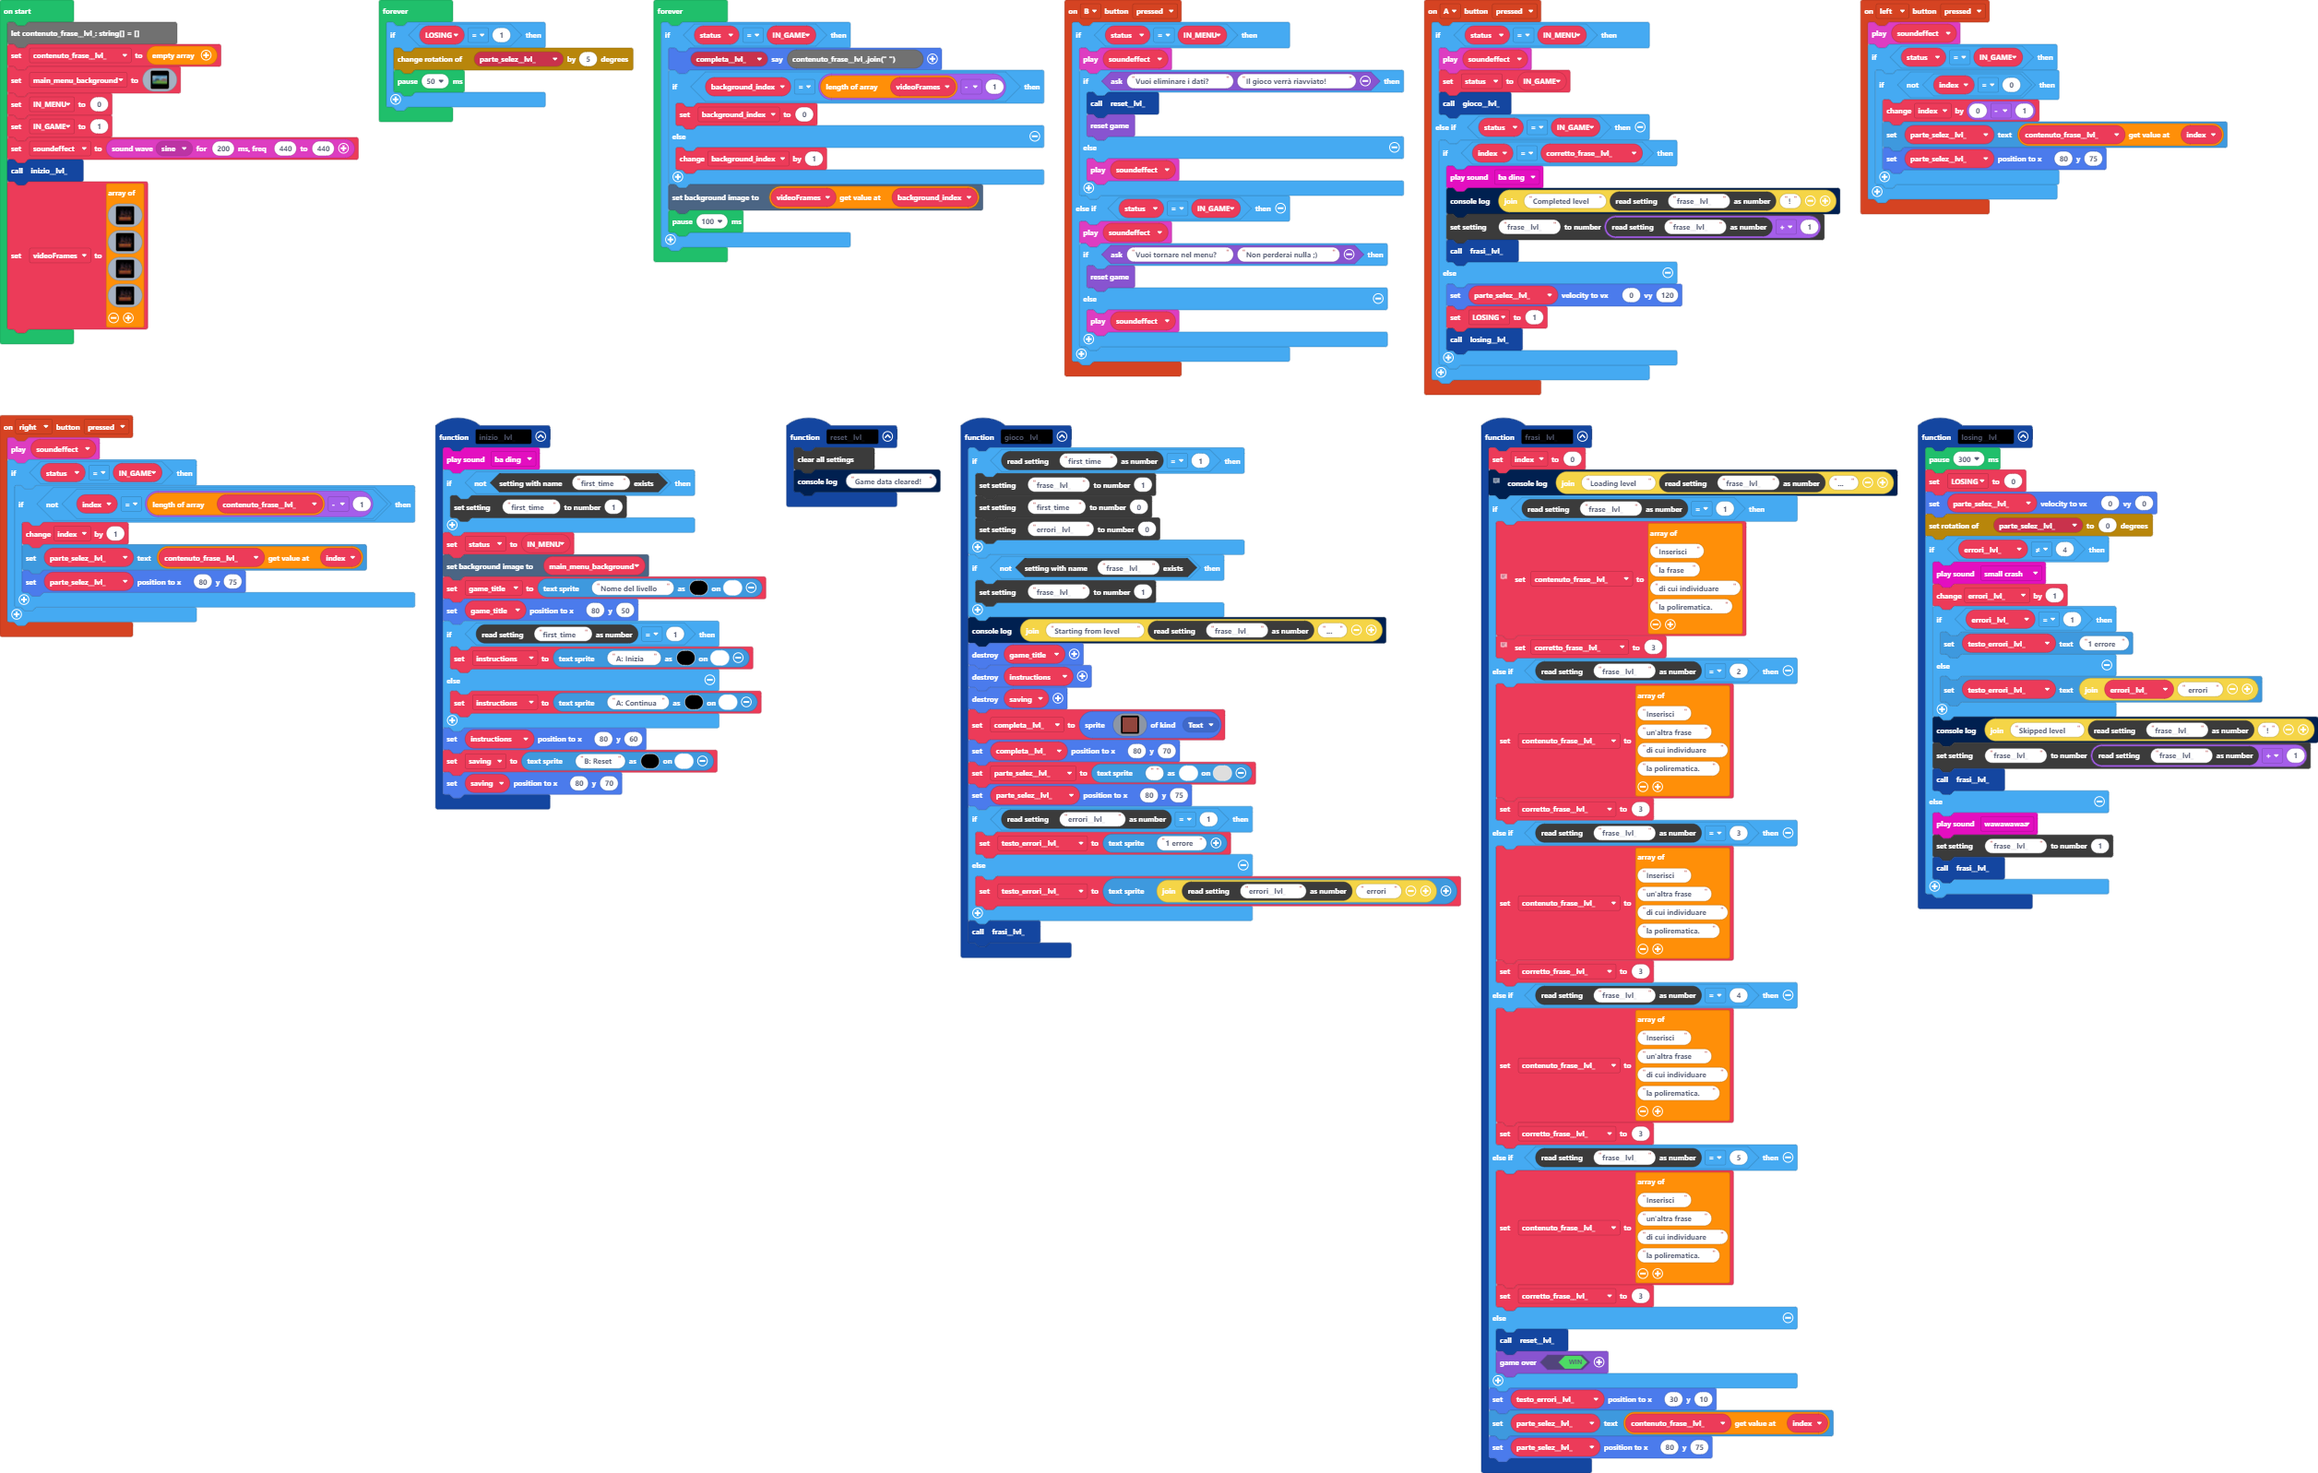
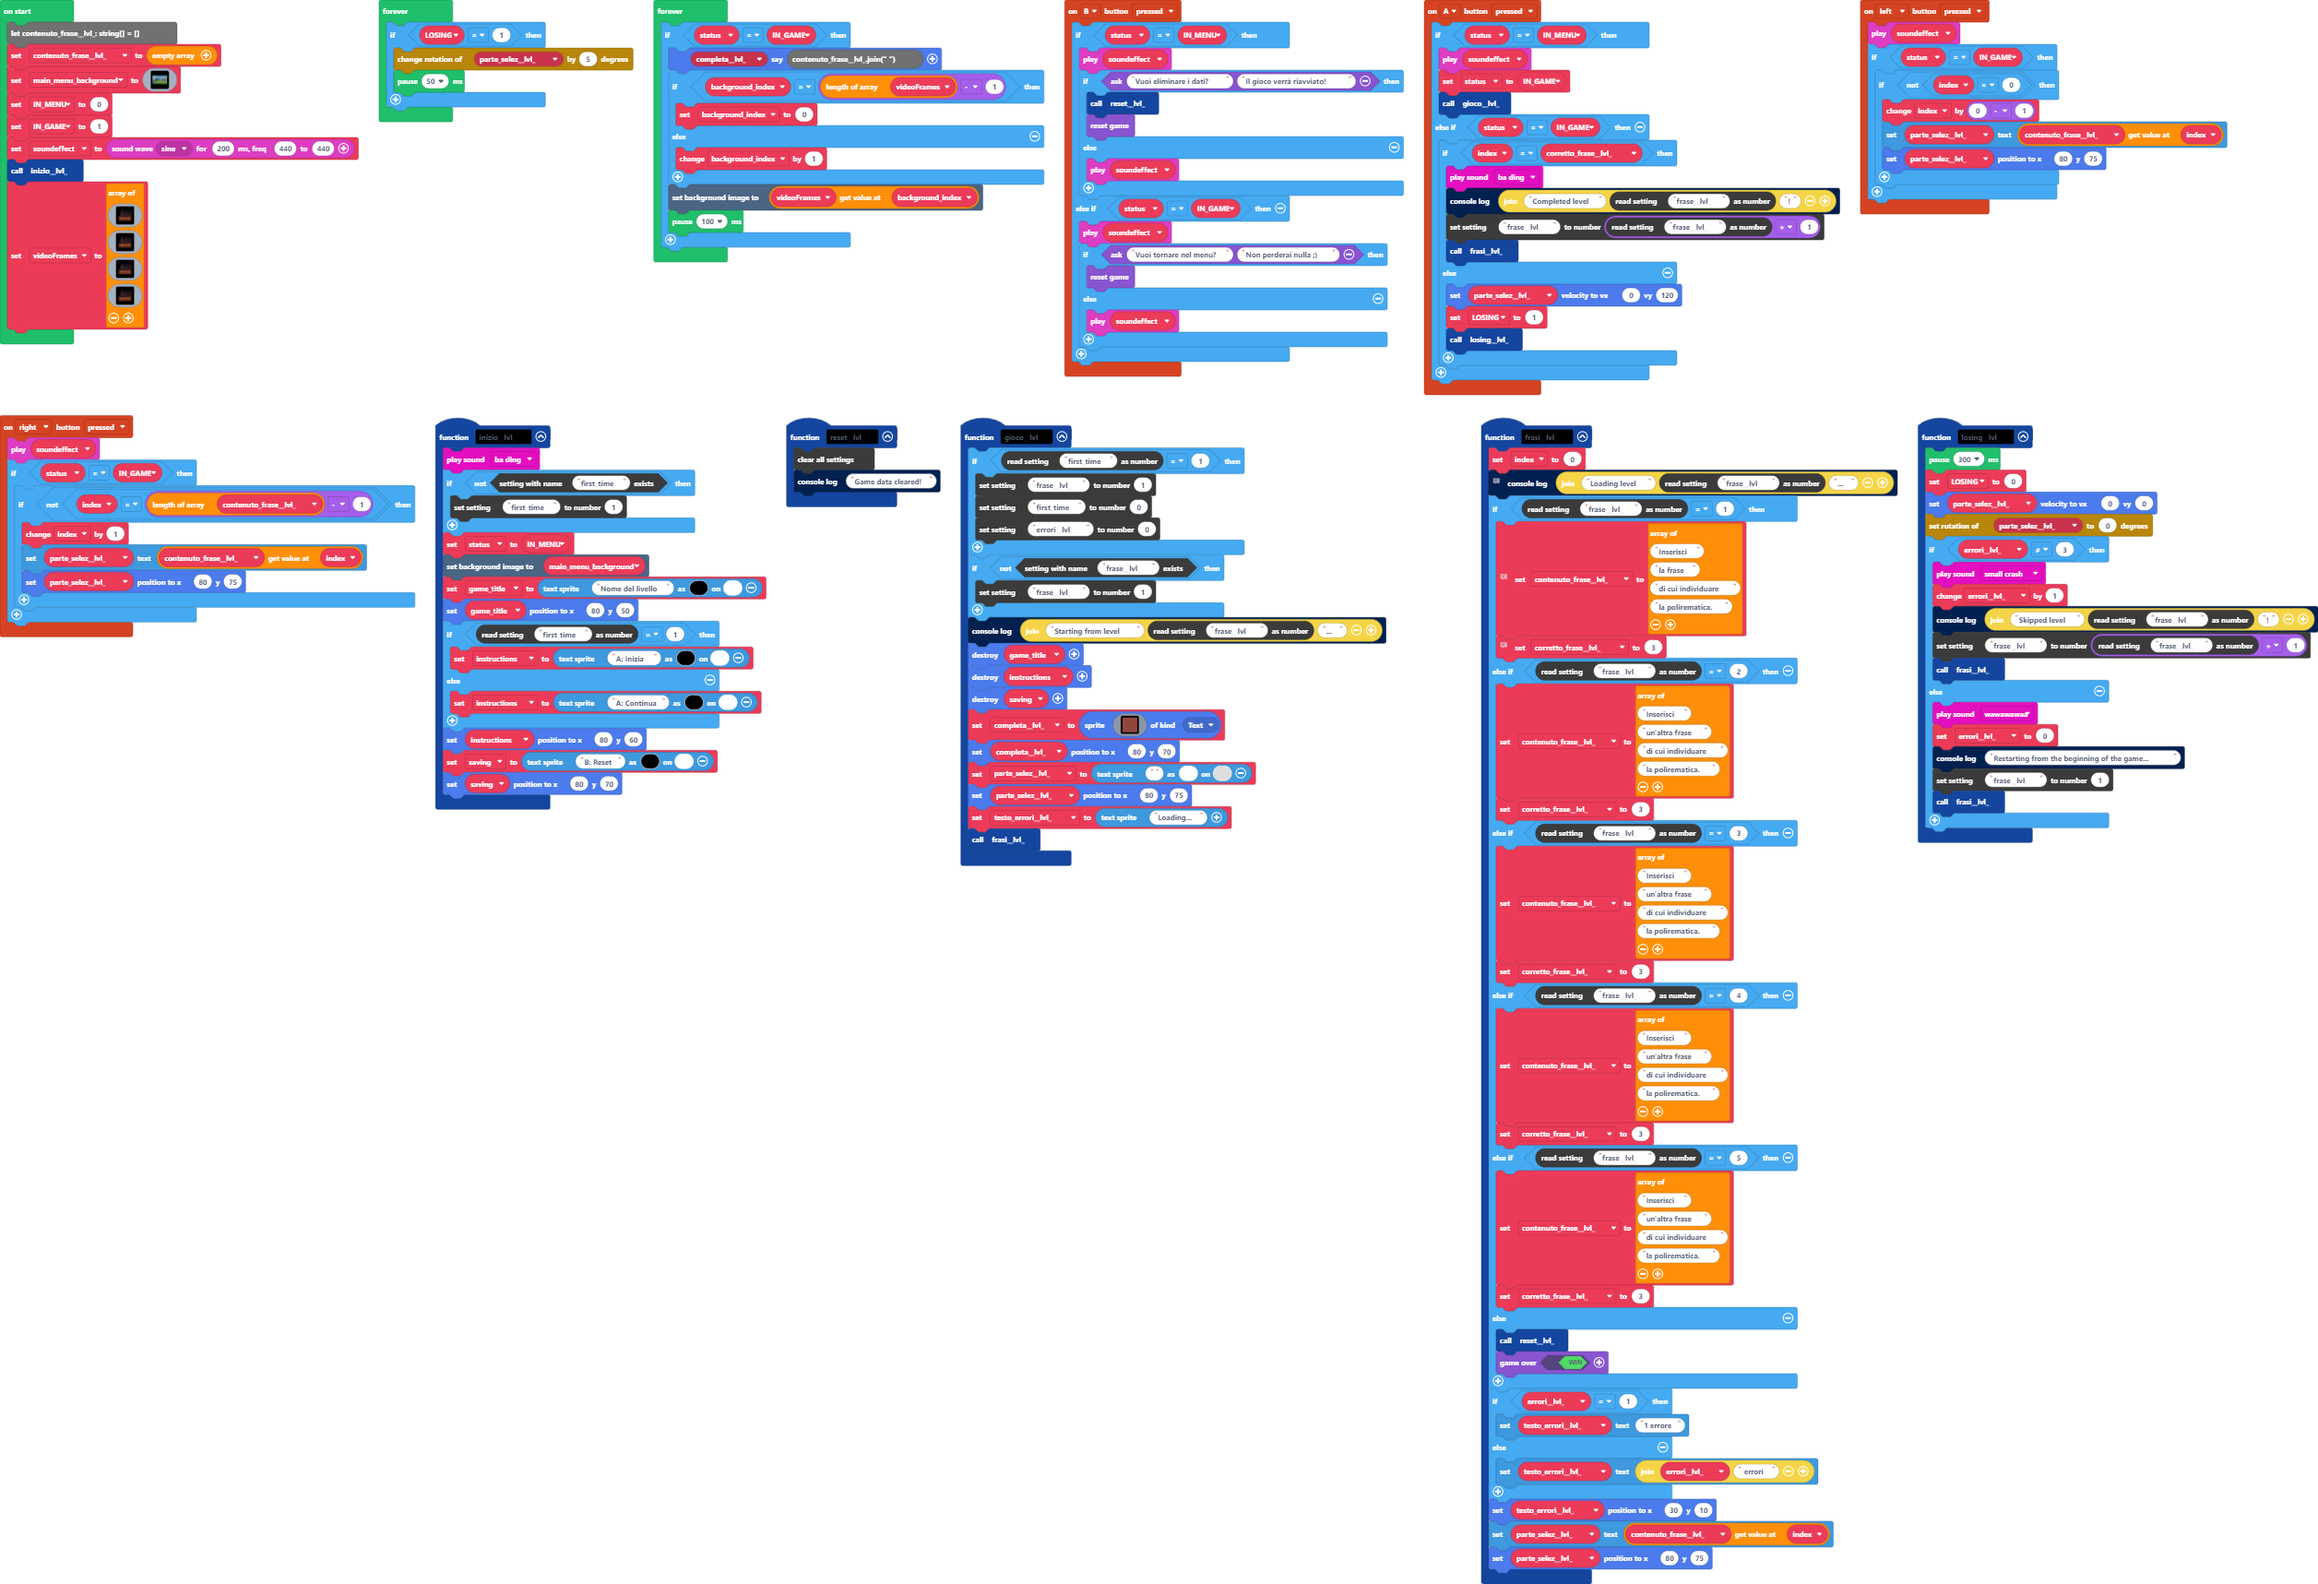
Update pxt.json, main.blocks, main.ts

Changed region(s): [[0.0, 0.0, 1.0, 1.0]]

diff --git a/main.ts b/main.ts
@@ -3,7 +3,7 @@ function losing__lvl_ () {
     LOSING = 0
     parte_selez__lvl_.setVelocity(0, 0)
     transformSprites.rotateSprite(parte_selez__lvl_, 0)
-    if (errori__lvl_ != 4) {
+    if (errori__lvl_ != 3) {
         music.smallCrash.play()
         errori__lvl_ += 1
         console.log("Skipped level " + blockSettings.readNumber("frase__lvl_") + "!")
@@ -179,12 +179,12 @@ function frasi__lvl_ () {
 let background_index = 0
 let corretto_frase__lvl_ = 0
 let index = 0
+let testo_errori__lvl_: TextSprite = null
 let completa__lvl_: Sprite = null
 let saving: TextSprite = null
 let instructions: TextSprite = null
 let game_title: TextSprite = null
 let status = 0
-let testo_errori__lvl_: TextSprite = null
 let errori__lvl_ = 0
 let parte_selez__lvl_: TextSprite = null
 let LOSING = 0
